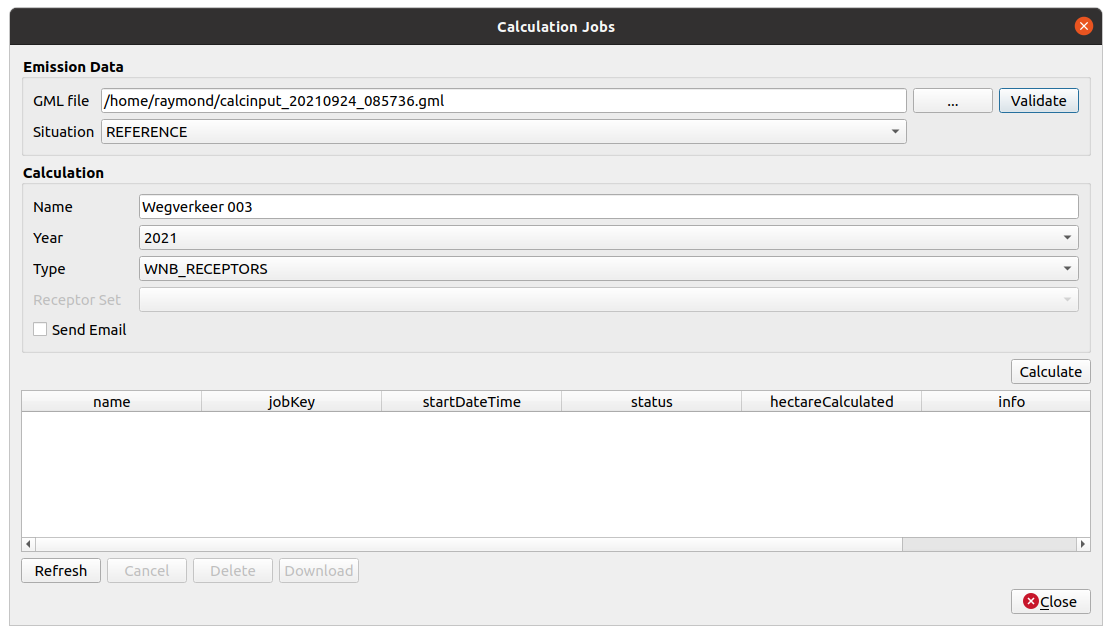
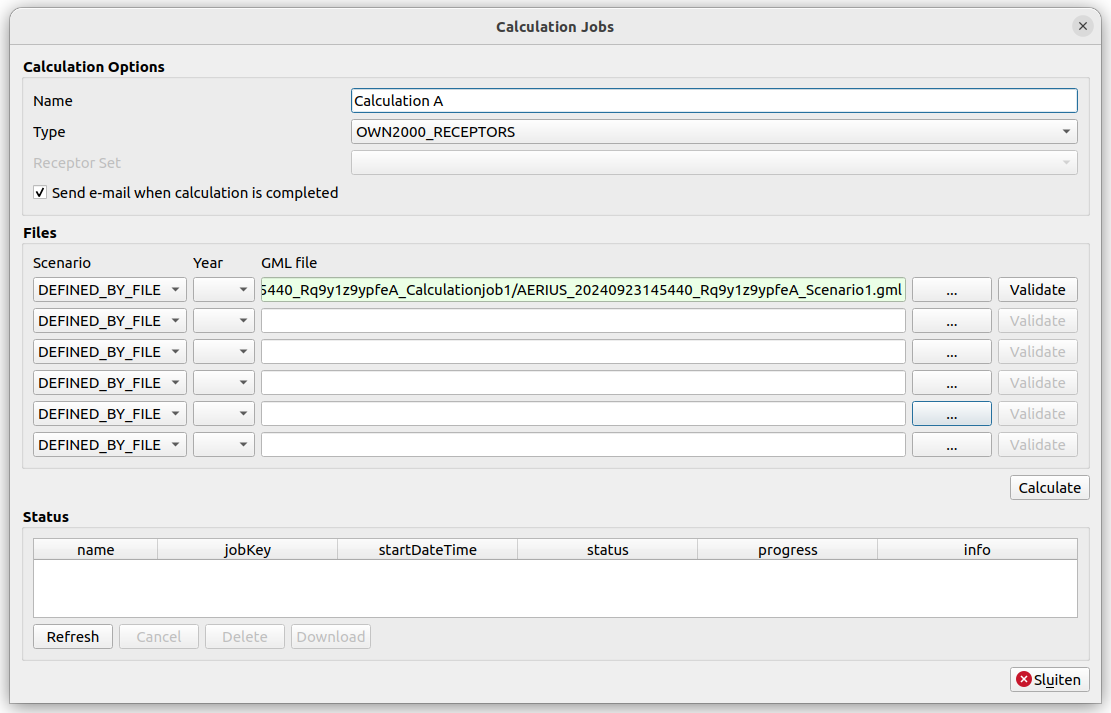
Docs 3.6, connect_jobs update

Changed region(s): [[0.0, 0.0, 1.0, 1.0]]

diff --git a/docs/3.6/08_connect_jobs.md b/docs/3.6/08_connect_jobs.md
@@ -21,9 +21,12 @@ The main purpose of this sending your emission GML file to the Connect API to
 start a calculation. The GML can be either created with the Generate Calculator
 Input functionality from this plugin or generated in any other way.
 
+You can select up to 6 .gml files for calculation. All of them The `scenario` and
+`year` properties can override the settings as defined in the .gml file.
+
 ### Validate
 
-After picking the GML file it is recommended to run a validation before starting
+After picking the GML file(s) it is recommended to run a validation before starting
 a calculation. Just hit the `Validate` button and wait for the result.
 
 The validation result will be shown in a dialog like these:
@@ -32,19 +35,22 @@ The validation result will be shown in a dialog like these:
 
 ![dialog](img/connect_jobs_validation_2.png)
 
-In case of an error, you can selecting the text (CTRL-A) and copy (CTRL-C) it
+In case of an error, you can select the text (CTRL-A) and copy (CTRL-C) it
 to the clipboard.
 
 ### Calculate
 
 For starting a calculaion you will need to set some input parameters:
 
-* Situation: DEFINED_BY_FILE, REFERENCE, PROPOSED, TEMPORARY
 * Name: Any name for your own reference. This will be displayed in the table
 * Type:
   * WNB_RECEPTORS: Normal calculation on all default Nature Area receptors.
   * CUSTOM_POINTS: Pick one of your self uploaded receptor sets
 * Send e-mail when calculation is completed: Check if you wish to receive an email notification when the calculation has finished
+
+Per file, these settings can override the values in the .gml file:
+* Situation: DEFINED_BY_FILE, REFERENCE, PROPOSED, TEMPORARY
+* Year
 
 Click the `Calculate` button for sending your data to Connect and start the calculation.
 
